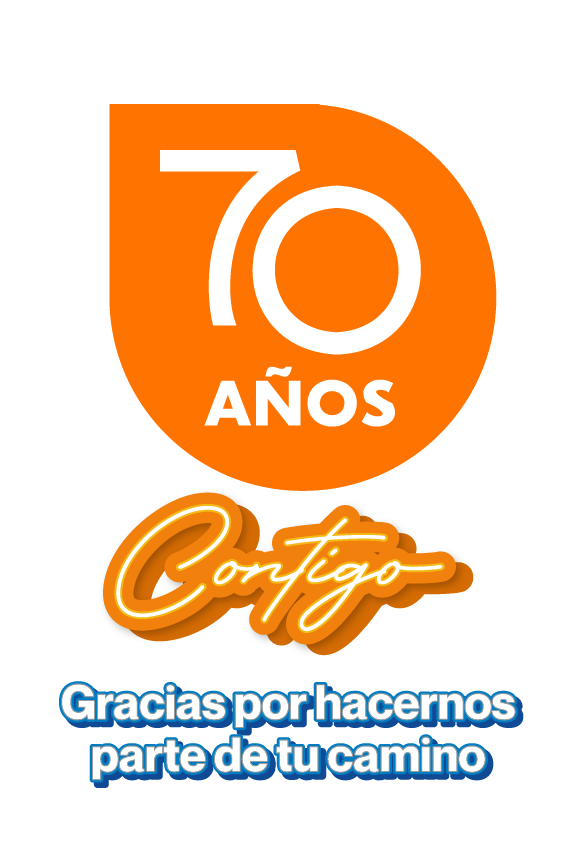
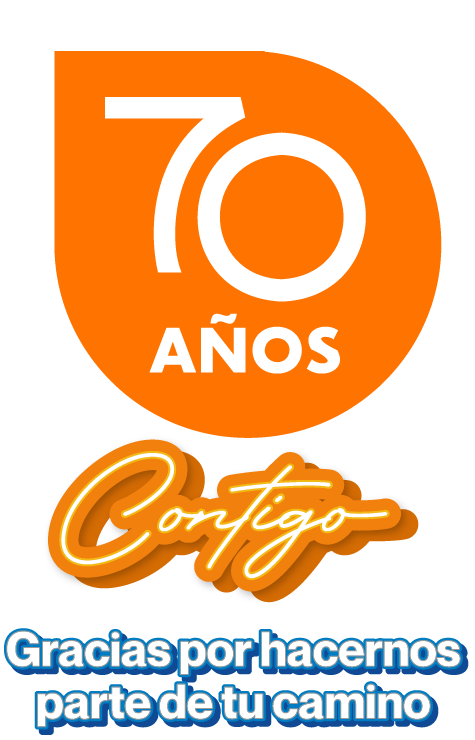
Ajustes de plataforma en landing

diff --git a/public/css/styles.css b/public/css/styles.css
@@ -50,11 +50,11 @@
     align-items: center;
     flex-direction: row;
     width: 100%;
-    padding: 0 50px;
+    padding: 0 80px;
 }
 
 .top-logos-images img {
-    width: 300px;
+    width: 280px;
 }
 
 /* Top Container Info */
@@ -62,10 +62,10 @@
 .top-container-info {
     display: flex;
     justify-content: center;
-    align-items: center;
     flex-direction: row;
     width: 100%;
     gap: 50px;
+    margin-bottom: 110px;
 }
 
 .top-container-left-info {
@@ -77,7 +77,7 @@
 }
 
 .top-container-left-info img {
-    width: 150%;
+    width: 140%;
     margin-left: -15%;
 }
 
@@ -90,7 +90,8 @@
 }
 
 .top-container-right-info img {
-    width: 70%;
+    margin-top: -90px;
+    width: 60%;
 }
 
 /* Pasos promo */
@@ -102,7 +103,9 @@
     flex-direction: row;
     width: 100%;
     margin-bottom: 50px;
+    margin-top: -200px;
     padding: 50px;
+    z-index: 1;
 }
 
 .pasos-container img {
@@ -195,13 +198,80 @@
 
 /* Login - register */
 
+/* Regista tus codigos */
+.main-forms-container {
+    display: flex;
+    justify-content: center;
+    align-items: center;
+    flex-direction: row;
+    width: 100%;
+    padding: 50px;
+    margin-bottom: 50px;
+}
+
+.codigos-form-container {
+    display: flex;
+    flex-direction: column;
+    width: 33%;
+    gap: 50px;
+}
+
+.codigos-form-text h2 {
+    font-size: 4.2rem;
+    color: #FF6700;
+    line-height: 1;
+}
+
+.codigos-form-text span {
+    display: block;
+    color: #fff;
+}
+
+.codigos-terminos {
+    display: flex;
+    width: 100%;
+    justify-content: space-between;
+    padding: 20px 20px;
+    border-top: 4px solid #fff;
+    border-bottom: 4px solid #fff;
+    border-left: 4px solid #fff;
+    border-top-left-radius: 20px;
+    border-bottom-left-radius: 20px;
+}
+
+.codigos-terminos p {
+    color: #fff;
+    font-size: 1.8rem;
+    font-weight: bold;
+}
+
+.codigos-terminos span {
+    display: block;
+}
+
+.codigos-terminos button {
+    width: 33%;
+    border: none;
+    border-radius: 5px;
+    background-color: #FF6700;
+    color: #fff;
+    font-weight: bold;
+    font-size: 1.8rem;
+    margin-right: 25px;
+    cursor: pointer;
+    transition: all 0.3s ease; 
+}
+
+/* Login register container */
+
 .login-register-container {
     display: flex;
     justify-content: center;
     align-items: center;
-    width: 460px;
+    width: 33%;
+    min-height: 600px;
     padding: 50px;
-    background: linear-gradient(to bottom, #004A99, #007FC8);
+    background: linear-gradient(to top, #004A99, #007FC8);
     box-shadow: 0 0 10px 0 rgba(0, 0, 0, 2);
     margin-bottom: 50px;
 }
@@ -217,8 +287,8 @@
 .login-form h2, .register-form h2 {
     color: #fff;
     font-family: 'MyriadPro Regular';
-    margin-bottom: 10px;
-    font-size: 2rem;
+    margin-bottom: 20px;
+    font-size: 3.2rem;
 }
 
 .login-form form, .register-form form {
@@ -250,21 +320,23 @@
 }
 
 .login-form form button, .register-form form button {
-    width: 25%;
-    padding: 10px;
+    width: 45%;
+    padding: 15px;
     border: none;
     border-radius: 5px;
     background-color: #FF6700;
     color: #fff;
     font-weight: bold;
-    font-size: 1rem;
+    font-size: 1.4rem;
     margin-top: 20px;
     cursor: pointer;
     transition: all 0.3s ease; 
 }
 
 .login-form form p {
+    font-size: 1.3rem;
     color: #fff;
+    margin-top: 20px;
 }
 
 .register-show {
@@ -295,6 +367,6 @@
     justify-content: center;
     align-items: center;
     width: 100%;
-    height: 40px;
+    height: 30px;
     background-color: #FF6700;
 }

diff --git a/resources/views/welcome.blade.php b/resources/views/welcome.blade.php
@@ -39,6 +39,17 @@
             <img src="{{ asset('assets/magna-logo.png') }}" alt="">
         </div>
         @guest
+        <div class="main-forms-container">
+            <div class="codigos-form-container">
+                <div class="codigos-form-text">
+                    <h2>Registra <span>tus códigos </span>ahora</h2>
+                </div>
+                <div class="codigos-terminos">
+                    <p>Descarga <span>términos y condiciones</span></p>
+                    <button>Aquí</button>
+                </div>
+
+            </div>
             <div class="login-register-container">
                 <div class="login-form">
                     <h2>Iniciar sesión</h2>
@@ -98,6 +109,7 @@
                     </div>
                 @endif --}}
             </div>
+        </div>
         @endguest
         @auth
             <h2>Registro de codigos</h2>
